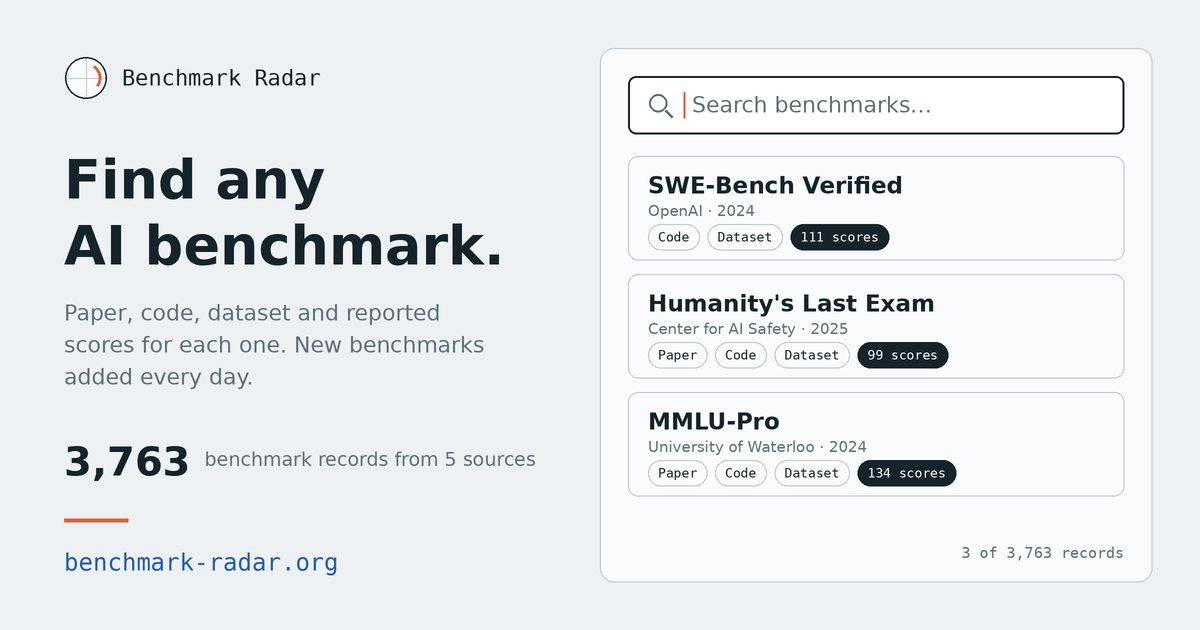
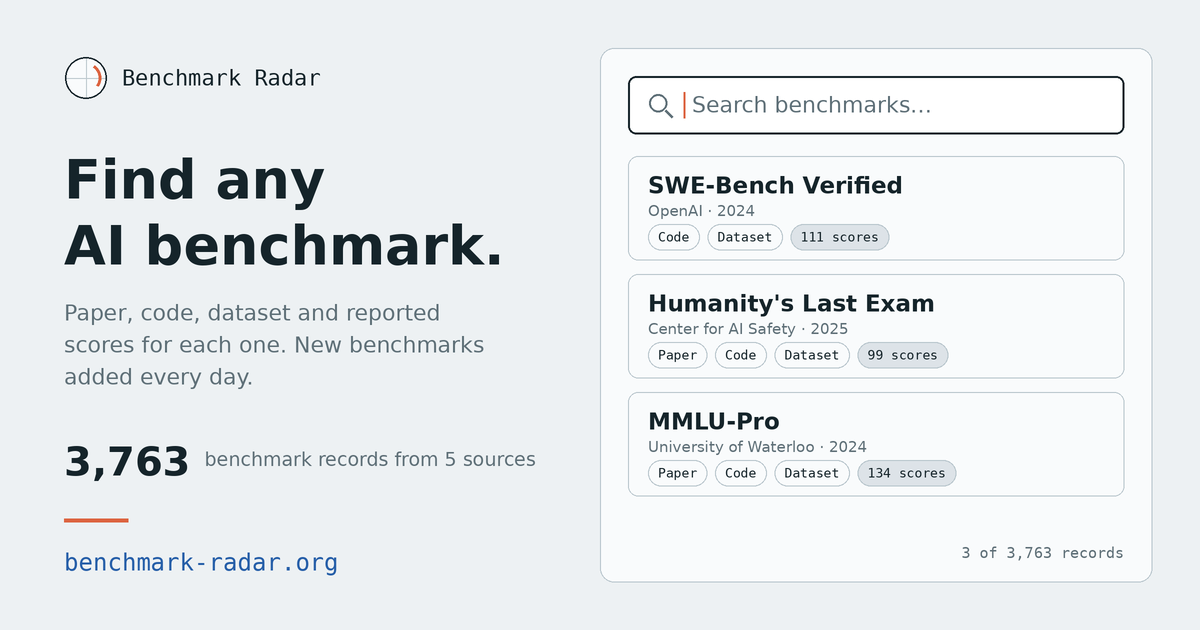
style: use gray score chips on the share card

Changed region(s): [[0.6475, 0.3317, 0.74, 0.4222], [0.7092, 0.7238, 0.8017, 0.7841], [0.7092, 0.5429, 0.8017, 0.6032]]

diff --git a/scripts/generate_og_image.py b/scripts/generate_og_image.py
@@ -154,12 +154,12 @@ def _chip(
     draw.rounded_rectangle(
         [x, y, x + width, y + 26 * s],
         radius=13 * s,
-        fill=SITE_INK if strong else PANEL,
-        outline=SITE_INK if strong else EDGE,
+        fill=LIGHT if strong else PANEL,
+        outline=EDGE,
         width=s,
     )
     draw.text(
-        (x + 10 * s, y + 13 * s), text, font=face, fill=PANEL if strong else SITE_INK, anchor="lm"
+        (x + 10 * s, y + 13 * s), text, font=face, fill=SITE_INK, anchor="lm"
     )
     return round(x + width + 8 * s)
 
